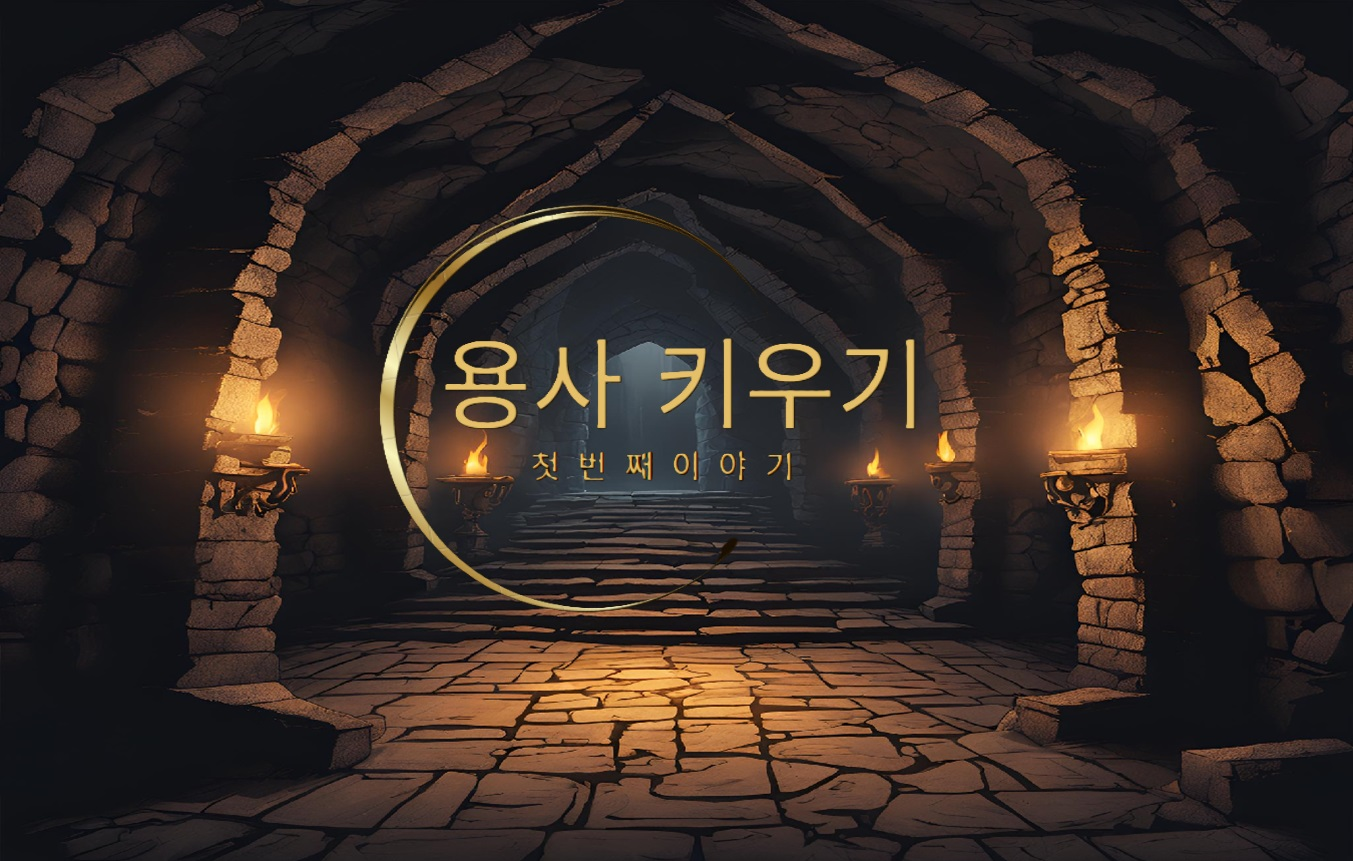
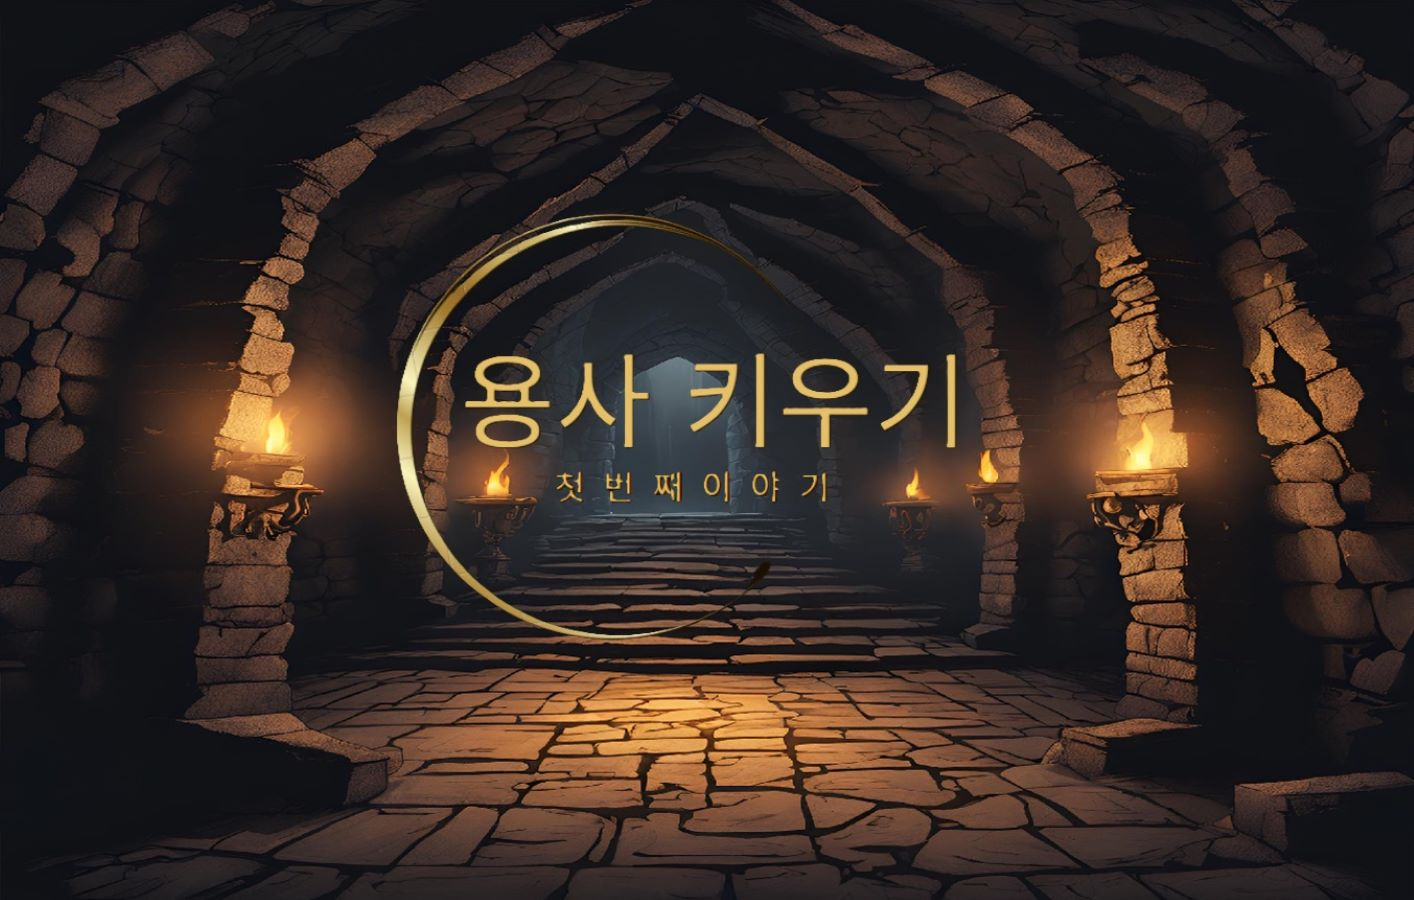
2024-12-02-15:23 Frame 테두리 제거 (중요!!)

diff --git a/knight_game/src/game/InGamePanel.java b/knight_game/src/game/InGamePanel.java
@@ -96,7 +96,7 @@ public class InGamePanel extends JPanel {
 		private TopPanel() {
 			setLayout(null);
 			TopPanel.this.setTopPanel();
-			setBounds(0, 0, 1366, 510);
+			setBounds(0, 0, 1366, 530);
 			setOpaque(false);
 		}
 
@@ -105,7 +105,7 @@ public class InGamePanel extends JPanel {
 			super.paintComponent(g);
 			Graphics2D g2d = (Graphics2D) g.create();
 			g2d.setComposite(AlphaComposite.getInstance(AlphaComposite.SRC_OVER, 0.7f));
-			g2d.drawImage(backgroundImage, 0, 0, 1366, 510, 0, 0, 1366, 510, null);
+			g2d.drawImage(backgroundImage, 0, 0, 1366, 530, 0, 0, 1366, 510, null);
 		}
 
 		// TopPanel 생성은 한 번, 이후에는 이 메서드를 통해서 변화
@@ -132,7 +132,7 @@ public class InGamePanel extends JPanel {
 
 		private BottomPanel() {
 			BottomPanel.this.setLayout(null);
-			setBounds(0, 510, 1366, 390);
+			setBounds(0, 530, 1366, 390);
 			add(new BasicPanel());
 			TextLabel.textLabel.setTextLabel(monster.getName() + "을 마주쳤다");
 			// BottomPanelEvent 클래스에 BottomBox 전환을 위한 BottomPanel 정보 넘겨주기
@@ -144,7 +144,7 @@ public class InGamePanel extends JPanel {
 			super.paintComponent(g);
 			Graphics2D g2d = (Graphics2D) g.create();
 			g2d.setComposite(AlphaComposite.getInstance(AlphaComposite.SRC_OVER, 0.7f));
-			g2d.drawImage(backgroundImage, 0, 0, 1366, 390, 0, 510, 1366, 900, null);
+			g2d.drawImage(backgroundImage, 0, 0, 1366, 390, 0, 530, 1366, 900, null);
 		}
 
 		public void setBottomBoxPanel(BottomBox bottomBox) {

diff --git a/knight_game/src/game/SetNamePanel.java b/knight_game/src/game/SetNamePanel.java
@@ -75,7 +75,7 @@ public class SetNamePanel extends JPanel {
 		};
 
 		barConPanel.setLayout(null);
-		barConPanel.setBounds(16, 448, 1320, 400);
+		barConPanel.setBounds(23, 480, 1320, 400);
 		barConPanel.setOpaque(false);
 
 		bar.setLayout(null);
@@ -94,7 +94,7 @@ public class SetNamePanel extends JPanel {
 
 		namePanel.add(charNameLabel, BorderLayout.CENTER);
 
-		textArea.setBounds(20, 20, 500, 500);
+		textArea.setBounds(20, 30, 500, 500);
 		textArea.setFont(new Font(textArea.getText(), Font.BOLD, 30));
 		textArea.setForeground(Color.WHITE);
 		textArea.setEditable(false);
@@ -133,7 +133,7 @@ public class SetNamePanel extends JPanel {
 
 		warning.setFont(new Font(name.getText(), Font.BOLD, 20));
 		warning.setForeground(new Color(173, 116, 96));
-		warning.setBounds(20, 50, 300, 50);
+		warning.setBounds(20, 120, 300, 50);
 		warning.setVisible(false);
 
 		popUp.setLayout(new BorderLayout());

diff --git a/knight_game/src/game/HomePanel.java b/knight_game/src/game/HomePanel.java
@@ -41,9 +41,9 @@ public class HomePanel extends JPanel {
 		// 2 : 게임방법
 		// 3 : 종료
 		// 버튼의 종류와 좌표,크기 지정 하여 사용
-		setButtonBounds((JButton) btns.get(0), 500, 500, 350, 60);
-		setButtonBounds((JButton) btns.get(1), 500, 580, 350, 60);
-		setButtonBounds((JButton) btns.get(2), 500, 660, 350, 60);
+		setButtonBounds((JButton) btns.get(0), 515, 540, 350, 60);
+		setButtonBounds((JButton) btns.get(1), 515, 620, 350, 60);
+		setButtonBounds((JButton) btns.get(2), 515, 700, 350, 60);
 
 	}
 
@@ -104,7 +104,7 @@ public class HomePanel extends JPanel {
 
 	public static void fadeout(JPanel bgPanel, JPanel panel, JFrame frame) {
 		Timer timer;
-		bgPanel.setSize(1350, 860);
+		bgPanel.setSize(1366, 899);
 		bgPanel.setBackground(new Color(0, 0, 0, 0));
 
 		timer = new Timer(20, new ActionListener() {

diff --git a/knight_game/src/game/ingame/bottom/BottomBox.java b/knight_game/src/game/ingame/bottom/BottomBox.java
@@ -22,7 +22,7 @@ public abstract class BottomBox extends JPanel {
 		setLayout(null);
 		BottomBox.this.setBorder(BorderFactory.createLineBorder(Color.DARK_GRAY, cornerRadius, true));
 		BottomBox.this.add(TextLabel.textLabel);
-		BottomBox.this.setBounds(16, 3, 1320, 335);
+		BottomBox.this.setBounds(20, 10, 1320, 335);
 		addMouseListener(new BottomPanelEvent().new BottomMouseListener());
 		setOpaque(false);
 	}

diff --git a/knight_game/src/game/ingame/bottom/BattlePanel.java b/knight_game/src/game/ingame/bottom/BattlePanel.java
@@ -16,7 +16,7 @@ public class BattlePanel extends BottomBox {
 
 		private AttackButton() {
 			super("공격");
-			setLocation(105, 100);
+			setLocation(285, 100);
 		}
 	}
 
@@ -24,7 +24,7 @@ public class BattlePanel extends BottomBox {
 
 		private SkillButton() {
 			super("스킬");
-			setLocation(505, 100);
+			setLocation(785, 100);
 		}
 
 	}

diff --git a/knight_game/src/game/GameFrame.java b/knight_game/src/game/GameFrame.java
@@ -15,6 +15,9 @@ public class GameFrame extends JFrame {
 		// 프레임 크기조절 false : 불가, true : 허용
 		setResizable(false);
 
+		// 프레임 테두리 제거
+		setUndecorated(true);
+		
 		// 프레임 화면 가운데 정렬
 		setLocationRelativeTo(null);
 

diff --git a/knight_game/src/game/ingame/top/statuspanel/CharacterStatusPanel.java b/knight_game/src/game/ingame/top/statuspanel/CharacterStatusPanel.java
@@ -6,7 +6,7 @@ public class CharacterStatusPanel extends StatusPanel {
 
 	public CharacterStatusPanel(AbstractCombatant c) {
 		super(c);
-		setLocation(986, 400);
+		setLocation(990, 420);
 	}
 
 }
